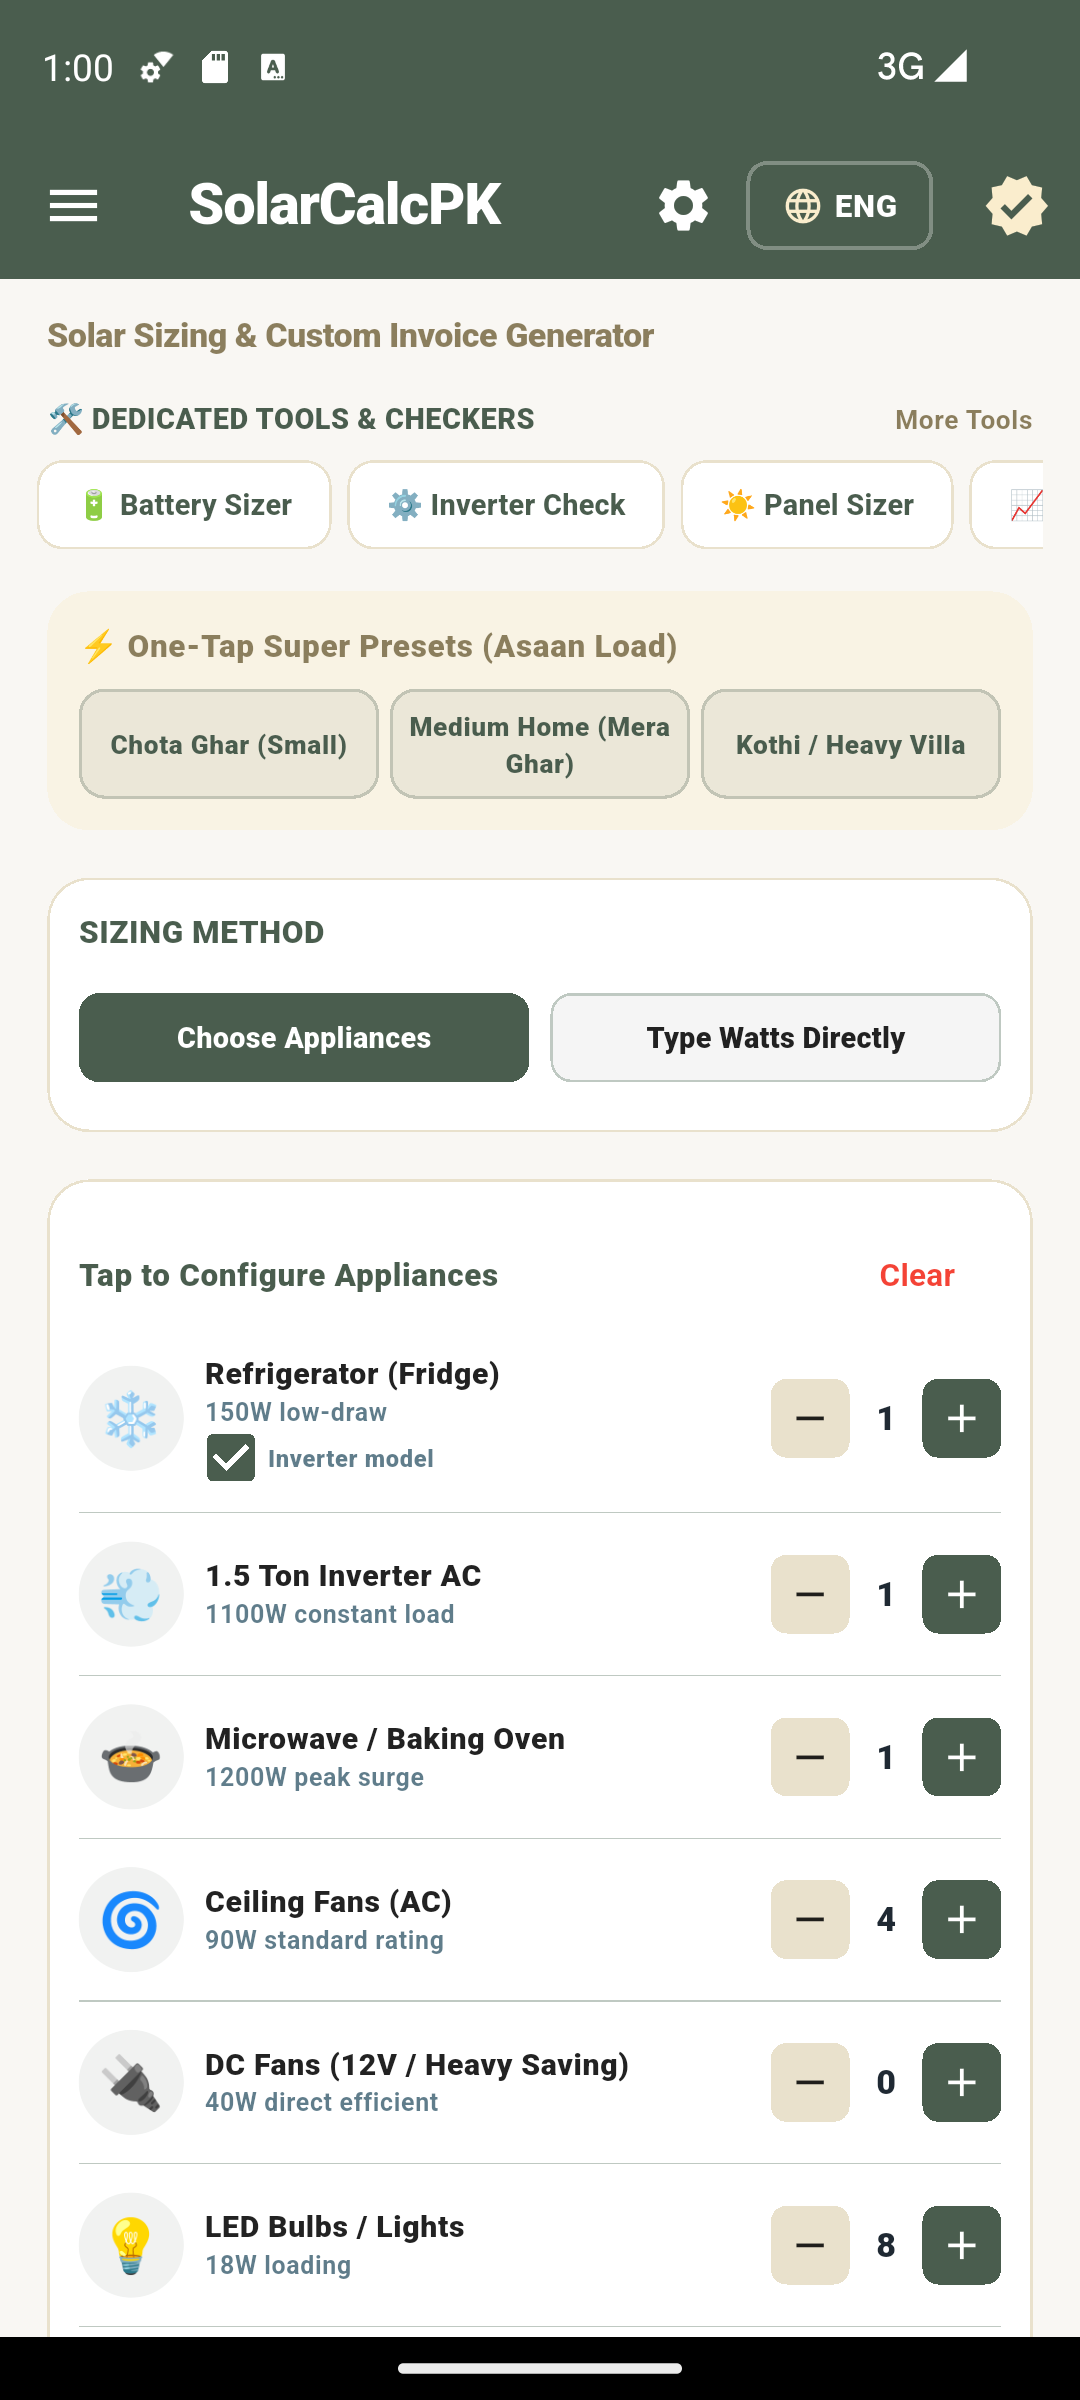
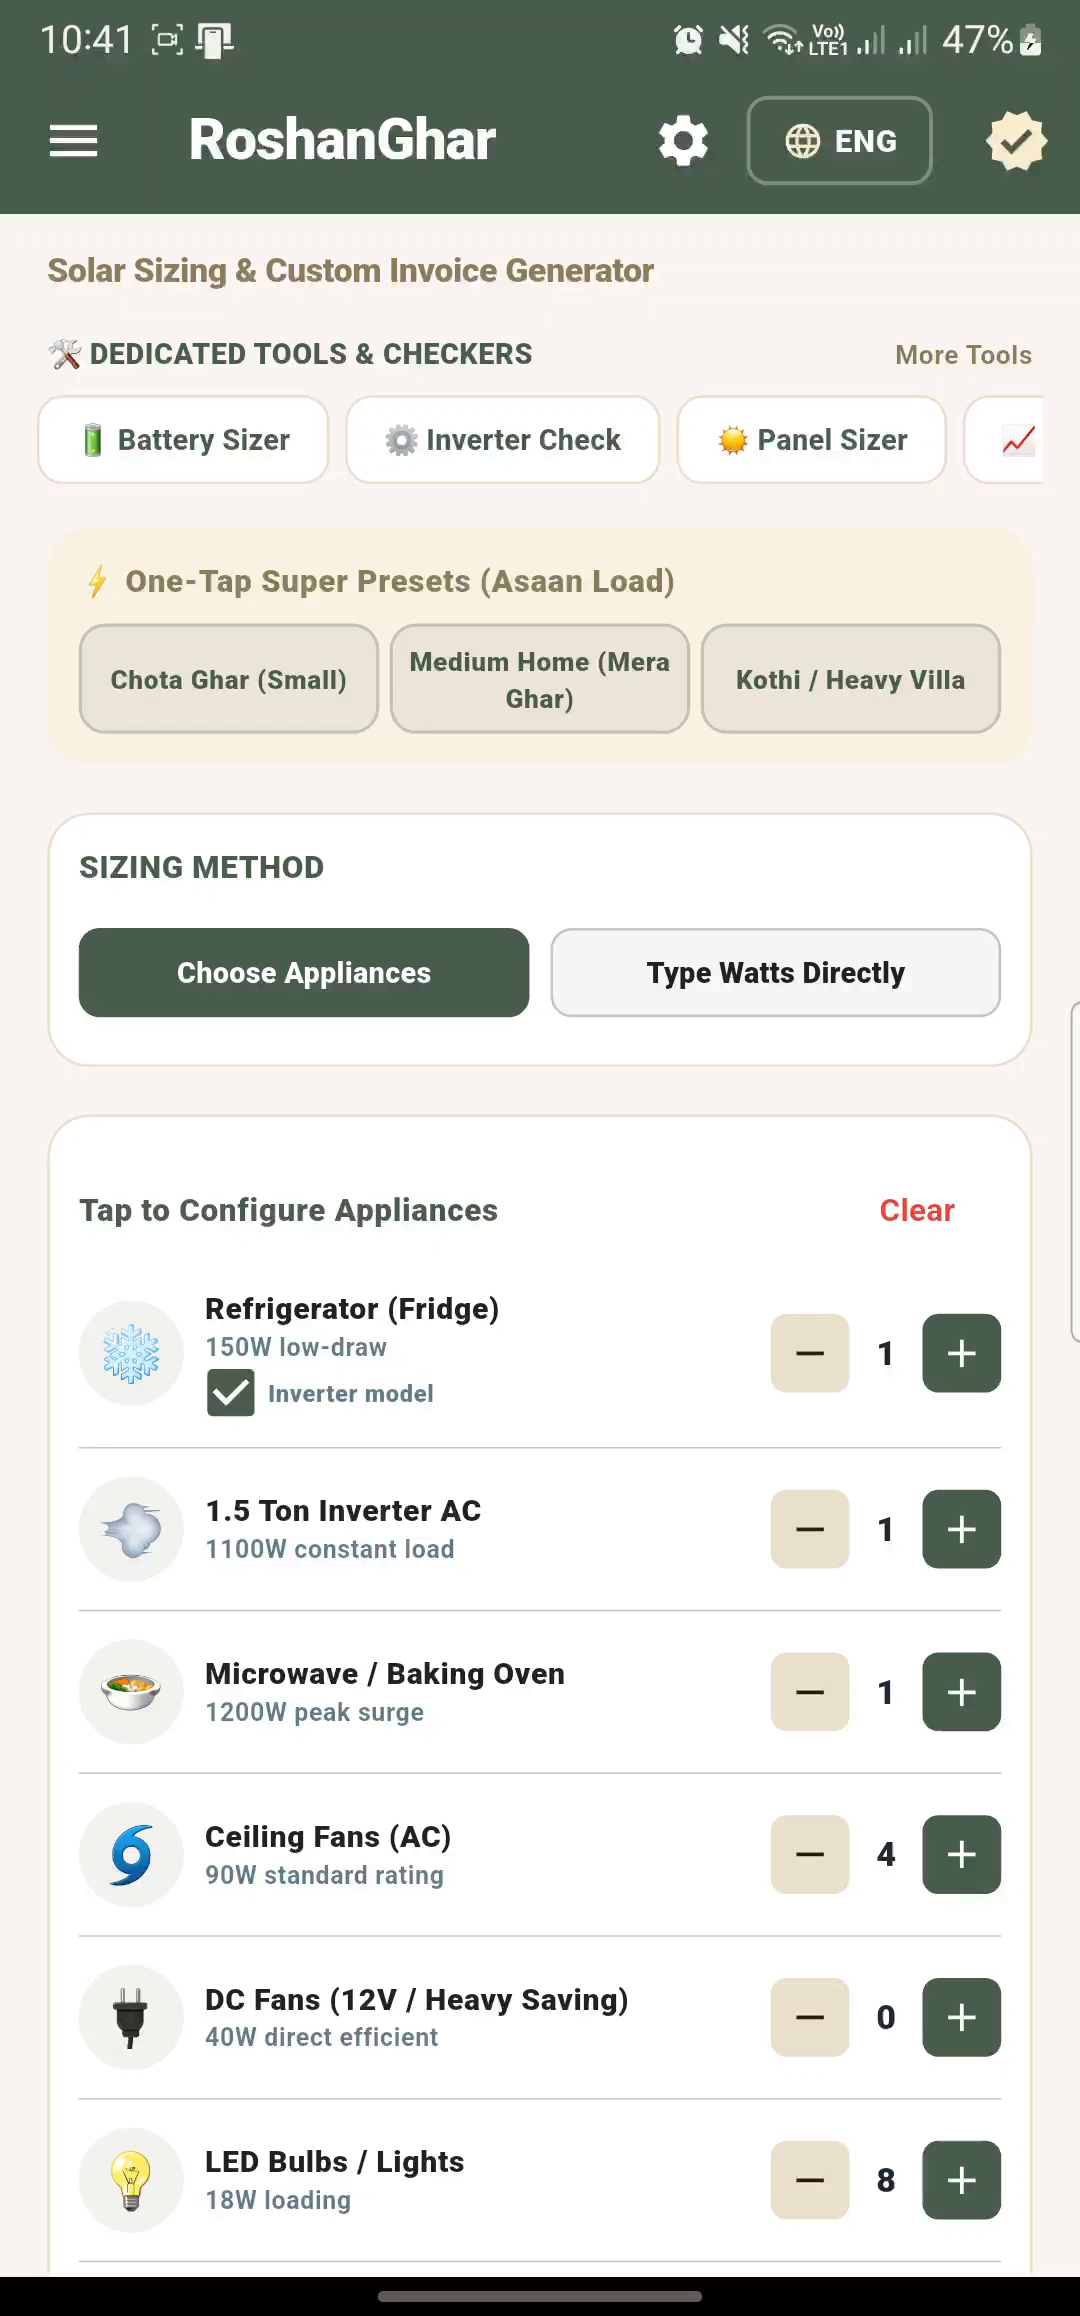
Basic App Completed

diff --git a/README.md b/README.md
@@ -6,7 +6,7 @@
 [![Live Demo](https://img.shields.io/badge/Live%20Demo-Google%20Drive-E040FB?logo=google-drive&logoColor=white)](https://drive.google.com/drive/folders/1MZqfQNH0GD1WS7Zor_VbcXOIl7jqOF0_?usp=drive_link)
 [![License: MIT](https://img.shields.io/badge/License-MIT-yellow.svg)](https://opensource.org/licenses/MIT)
 [![Tests Passing](https://img.shields.io/badge/Tests-35%20Passed-1D9E75?logo=checkmarx)](test/)
-[![Platform](https://img.shields.io/badge/Platform-Android%20%7C%20iOS%20%7C%20Web-4CAF50)]()
+[![Platform](https://img.shields.io/badge/Platform-Android-4CAF50)]()
 
 **RoshanGhar** is a transparent, offline-first solar engineering and financial calculation application purpose-built for Pakistani homeowners, businesses, and electricians. It demystifies solar system sizing by eliminating predatory installer markups and providing rigorous, deterministic engineering math tailored to Pakistan's climate, grid tariffs, and solar irradiance.
 
@@ -167,7 +167,7 @@ dart analyze
 
 ### Prerequisites
 * [Flutter SDK](https://docs.flutter.dev/get-started/install) (`^3.12.0` or higher)
-* Android Studio / Xcode / VS Code with Flutter extension
+* Android Studio / VS Code with Flutter extension
 
 ### Installation
 
